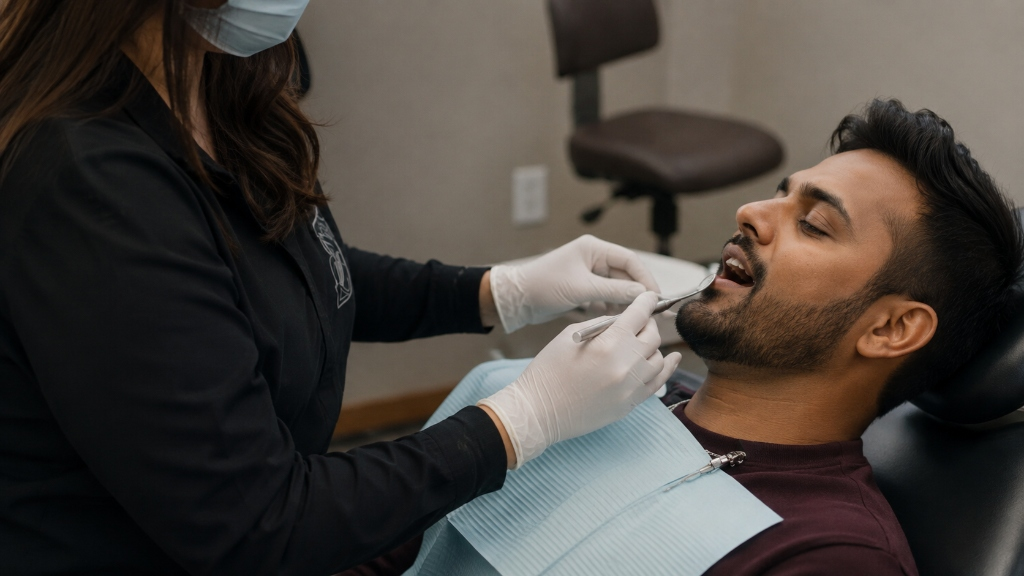
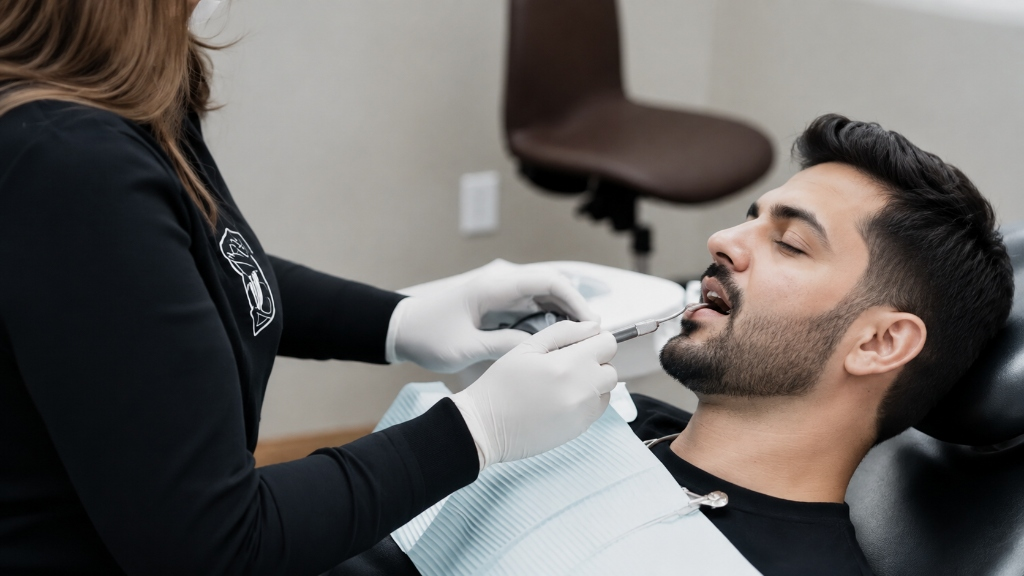
fix(hero): replace hero background image with new high-res patient checkup photo

diff --git a/CHANGELOG-AI.md b/CHANGELOG-AI.md
@@ -1,5 +1,15 @@
 # AI Work Changelog
 
+## 2026-08-17 — HERO SECTION: Updated Main Hero Background Image
+- **What changed**:
+  - Replaced `hero-treatment.jpg` with the user's preferred high-resolution photo showcasing a peaceful patient in relaxed comfort with eyes closed receiving a gentle dental checkup from the clinician.
+  - Recompiled production bundle and verified visual harmony with the live Google Review card, typographic overlay, and CTA buttons.
+- **Files modified**:
+  - `frontend/public/media/hero-treatment.jpg` [MODIFIED]
+- **Verification**:
+  - Production build compiled successfully.
+  - Verified live in browser subagent on 1440x900 (`verified_new_hero_image.png`).
+
 ## 2026-08-17 — GLOBAL SCROLL EXPERIENCE: Apple/Webflow-Style Inertial Scrolling, Direction-Aware Navbar & Viewport Depth Blur
 - **What changed**:
   - **Lenis Inertial Scroll Engine Integration**:
